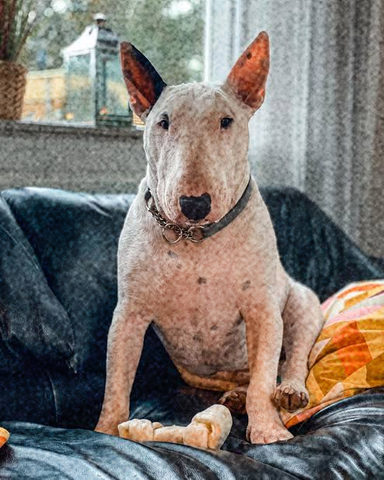
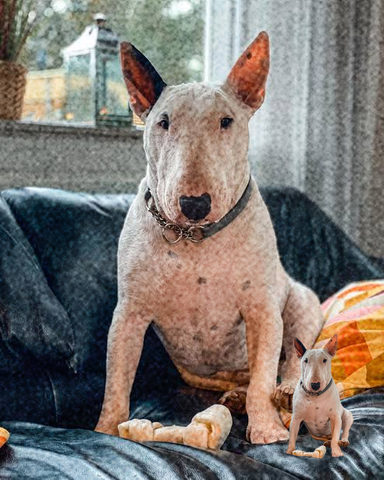
refactor(blend)!: fold overlay into blend
blend gains fit="width" (the picture as wide as the photo times scale,
aspect kept), a logo or sticker; blend's scale now reaches 0.01 as
overlay's did, margin is a basic parameter and, as the lengths rule
says, a share of the photo's long side (it was the shorter side, in
place() and so in both effects). The short way to write the old
overlay is the blend preset `logo` (normal mode, bottom right, a fifth
of the width, margin 0.025). Seven parameters instead of twelve.
Replaces the overlay effect; its example moved into the blend recipe.

Measured on 320 px renders of the bullterrier photo: 741 old overlay
renders (5 pictures: cut-out PNG, flat colour, RGB array, RGBA array,
half-transparent; all nine anchors, scales 0.01..1, margins 0..0.45,
all four resamples) against blend(mode="normal", fit="width") with the
margin converted to the long side, max abs diff 0.0; the logo preset
against overlay's defaults, 0.0.

Changed region(s): [[0.75, 0.6875, 0.9375, 0.9688]]

diff --git a/tests/effects/blend/test_blend.py b/tests/effects/blend/test_blend.py
@@ -9,6 +9,7 @@ import pytest
 
 from bullterrier_image import Picture
 from bullterrier_image.core import registry
+from bullterrier_image.core.steps import Step
 
 NAME = "blend"
 
@@ -81,12 +82,96 @@ def test_tile_repeats_the_picture_scale_times_the_photos_width(photo):
 
 def test_the_margin_keeps_the_edge_of_the_photo_clear(photo):
     red = Picture.of_color("#ff0000")
-    out = registry.apply(NAME, photo, image=red, mode="normal", fit="stretch", margin=0.1)  # 10 of 96 px
-    np.testing.assert_array_equal(out[:10], photo[:10])
-    np.testing.assert_allclose(out[10:86, 10:118], np.broadcast_to([1, 0, 0], (76, 108, 3)), atol=1e-6)
+    out = registry.apply(NAME, photo, image=red, mode="normal", fit="stretch", margin=0.125)  # 16 of 128 px
+    np.testing.assert_array_equal(out[:16], photo[:16])
+    np.testing.assert_allclose(out[16:80, 16:112], np.broadcast_to([1, 0, 0], (64, 96, 3)), atol=1e-6)
 
 
 def test_a_transparent_picture_is_resized_without_bleeding_its_hidden_colour(photo):
     half = np.array([[[1, 0, 0, 1], [0, 1, 0, 0]]], np.float32)  # opaque red, then clear with green hidden in it
     out = registry.apply(NAME, photo, image=Picture(half), mode="normal", fit="stretch", resample="bicubic")
     assert (out[..., 1] <= photo[..., 1] + 1e-6).all()  # the hidden green is never mixed in (it would lift green)
+
+
+# --- a logo: fit "width" sizes the picture by the photo's width ----------------------------------------------------
+
+
+def logo_pixels() -> np.ndarray:
+    """An 8 x 16 (height x width) logo: opaque red on the left half, opaque blue on the right half."""
+    pixels = np.ones((8, 16, 4), np.float32)
+    pixels[:, :8, :3] = (1, 0, 0)
+    pixels[:, 8:, :3] = (0, 0, 1)
+    return pixels
+
+
+def put_logo(photo, logo=None, **params):
+    """The logo laid on the photo with the normal mode, fitted by width, hard-edged, as `blend` takes it."""
+    picture = Picture(logo_pixels() if logo is None else logo)
+    return registry.apply(NAME, photo, image=picture, mode="normal", fit="width", resample="nearest", **params)
+
+
+def test_a_fit_by_width_sizes_the_picture_as_a_share_of_the_photos_width_and_touches_nothing_else(photo):
+    # 96 x 128 photo, scale 0.25: the logo is 32 px wide and so 16 tall (each logo pixel 2 x 2), top left, no margin
+    out = put_logo(photo, at="top_left", scale=0.25, margin=0)
+    by_hand = np.repeat(np.repeat(logo_pixels()[..., :3], 2, axis=0), 2, axis=1)
+    np.testing.assert_array_equal(out[:16, :32], by_hand)
+    outside = np.ones(photo.shape[:2], bool)
+    outside[:16, :32] = False
+    np.testing.assert_array_equal(out[outside], photo[outside])
+
+
+def test_a_logo_with_alpha_0_leaves_the_photo_as_it_was(photo):
+    clear = logo_pixels()
+    clear[..., 3] = 0
+    np.testing.assert_array_equal(put_logo(photo, clear), photo)
+
+
+def test_a_half_transparent_logo_mixes_half_of_the_photo_into_its_box(photo):
+    half = logo_pixels()
+    half[..., 3] = 0.5
+    out = put_logo(photo, half, at="top_left", scale=0.25, margin=0)
+    by_hand = np.repeat(np.repeat(logo_pixels()[..., :3], 2, axis=0), 2, axis=1)
+    np.testing.assert_allclose(out[:16, :32], 0.5 * photo[:16, :32] + 0.5 * by_hand, atol=1e-6)
+
+
+@pytest.mark.parametrize(
+    ("at", "top", "left"),
+    [("top_left", 0, 0), ("top_right", 0, 96), ("bottom_left", 80, 0), ("bottom_right", 80, 96), ("center", 40, 48)],
+)
+def test_a_fit_by_width_puts_the_picture_at_its_anchor(photo, at, top, left):
+    rows, columns = np.nonzero(np.any(put_logo(photo, at=at, scale=0.25, margin=0) != photo, axis=2))
+    assert (rows.min(), columns.min(), rows.max(), columns.max()) == (top, left, top + 15, left + 31)
+
+
+def test_the_margin_is_a_share_of_the_photos_long_side(photo):
+    out = put_logo(photo, at="bottom_right", scale=0.25, margin=0.125)  # 16 px of the 128 px long side
+    rows, columns = np.nonzero(np.any(out != photo, axis=2))
+    assert (int(rows.max()), int(columns.max())) == (96 - 16 - 1, 128 - 16 - 1)
+
+
+def test_a_cut_out_keeps_its_shape_so_the_photo_shows_through_its_transparent_pixels(photo):
+    cutout = np.zeros((4, 4, 4), np.float32)
+    cutout[1:3, 1:3] = (0, 1, 0, 1)  # a green square in the middle of a clear picture
+    out = put_logo(photo, cutout, at="top_left", scale=0.25, margin=0)
+    np.testing.assert_array_equal(out[8:24, 8:24], np.broadcast_to([0, 1, 0], (16, 16, 3)))  # 32 px: 8 px per pixel
+    np.testing.assert_array_equal(out[:8], photo[:8])
+    np.testing.assert_array_equal(out[8:24, :8], photo[8:24, :8])
+
+
+def logo_corner(photo, **params):
+    """The photo with the logo laid by the given step parameters, and the rows and columns the logo changed."""
+    out = registry.apply(NAME, photo, image=Picture(logo_pixels()), **params)
+    return out, *np.nonzero(np.any(out != photo, axis=2))
+
+
+def test_the_logo_preset_puts_an_opaque_picture_a_fifth_of_the_photos_width_in_the_bottom_right_corner(photo):
+    out, rows, columns = logo_corner(photo, **Step(NAME, preset="logo").params)
+    assert abs((columns.max() - columns.min() + 1) - 0.2 * 128) <= 1  # a fifth of the photo's 128 px
+    assert 1 <= 96 - 1 - rows.max() <= 4  # a small margin from the bottom edge
+    assert 1 <= 128 - 1 - columns.max() <= 4  # and from the right edge
+    np.testing.assert_array_equal(out[rows.max(), columns.min()], [1, 0, 0])  # shown as it is: the normal mode
+
+
+def test_a_parameter_given_beside_the_logo_preset_wins(photo):
+    _, _rows, columns = logo_corner(photo, **Step(NAME, {"scale": 0.01}, preset="logo").params)
+    assert columns.max() - columns.min() + 1 <= 2  # 1 % of 128 px

diff --git a/src/bullterrier_image/effects/blend/effect.py b/src/bullterrier_image/effects/blend/effect.py
@@ -1,4 +1,5 @@
-"""The `blend` effect: lay a second picture over the photo with a blend mode (multiply a texture, screen a light...)."""
+"""The `blend` effect: lay a second picture over the photo with a blend mode (multiply a texture, screen a light, put
+a logo on it...)."""
 
 from typing import Literal
 
@@ -27,11 +28,12 @@ class BlendParams(EffectParams):
         "hue and saturation and keeps its brightness. Mid grey leaves the photo unchanged under 'overlay' and "
         "'soft_light'.",
     )
-    fit: Literal["cover", "contain", "stretch", "tile"] = param(
+    fit: Literal["cover", "contain", "stretch", "width", "tile"] = param(
         "cover",
         doc="How the picture is fitted to the photo: 'cover' fills it keeping the aspect and crops the overhang, "
         "'contain' fits inside it keeping the aspect (the rest of the photo is untouched), 'stretch' fills it "
-        "ignoring the aspect, 'tile' repeats the picture, one tile as wide as the photo times `scale`.",
+        "ignoring the aspect, 'width' keeps the aspect and makes the picture as wide as the photo times `scale` (a "
+        "logo or sticker), 'tile' repeats that picture over the photo.",
     )
     at: Anchor = param(
         "center",
@@ -41,19 +43,20 @@ class BlendParams(EffectParams):
     scale: float = param(
         1.0,
         unit="ratio",
-        min=0.05,
+        min=0.01,
         max=2,
         doc="The fitted picture's size as a multiple of the size `fit` gives it: 1 as fitted, 0.5 half as wide and "
-        "tall. With 'tile', 0.25 puts four tiles across the photo.",
+        "tall. With 'width' it is the picture's width as a share of the photo's (0.2 a fifth); with 'tile', 0.25 "
+        "puts four tiles across the photo.",
     )
     margin: float = param(
         0.0,
         unit="fraction",
         min=0,
         max=0.45,
-        advanced=True,
-        doc="Space kept clear around the fitted picture, as a share of the photo's shorter side, 0 to 0.45. Raising "
-        "it shrinks what 'cover', 'contain' and 'stretch' fill and moves the picture inward.",
+        doc="Space kept clear around the fitted picture, as a share of the photo's long side, 0 to 0.45 (never more "
+        "than leaves a pixel of the shorter side). Raising it shrinks what 'cover', 'contain' and 'stretch' fill and "
+        "moves a smaller picture at an edge or corner inward.",
     )
     resample: Resample = param(
         "lanczos",
@@ -65,7 +68,7 @@ class BlendParams(EffectParams):
 
 @effect(category="compositing", params=BlendParams)
 def blend(rgb: np.ndarray, params: BlendParams) -> np.ndarray:
-    """Lay a second picture over the photo with a blend mode, fitted by cover, contain, stretch or tile."""
+    """Lay a second picture over the photo with a blend mode, fitted by cover, contain, stretch, width or tile."""
     layer = place(
         params.image.pixels,
         rgb.shape[:2],

diff --git a/src/bullterrier_image/ops/place.py b/src/bullterrier_image/ops/place.py
@@ -40,13 +40,14 @@ def place(
     - `width` makes the picture as wide as the photo (a logo's `scale` is then a share of the photo's width);
     - `tile` is `width`, repeated over the whole photo with one tile at the anchor.
     `at` says where in the free space a picture smaller or larger than the area sits (the tiles' phase for `tile`).
-    `margin` is a share of the photo's shorter side, kept clear on every side (at most as much as leaves a pixel).
+    `margin` is a share of the photo's long side, kept clear on every side (at most as much as leaves a pixel of the
+    shorter side).
     `resample` is the filter that sizes it; colours are weighted by alpha while sizing, so a transparent pixel lends
     its neighbours no colour.
     """
     height, width = shape
     short = min(shape)
-    inset = min(round(margin * short), (short - 1) // 2)
+    inset = min(round(margin * max(shape)), (short - 1) // 2)
     area_h, area_w = height - 2 * inset, width - 2 * inset
     source_h, source_w = picture.shape[:2]
     if fit == "stretch":

diff --git a/tests/ops/test_place.py b/tests/ops/test_place.py
@@ -52,10 +52,10 @@ def test_a_picture_sits_at_one_of_nine_anchors_in_the_free_space(at, top, left):
     assert box(fit(SQUARE, (20, 20), at=at, scale=0.5)) == (top, left, 10, 10)
 
 
-def test_the_margin_is_a_share_of_the_shorter_side_kept_clear_of_the_picture():
-    placed = fit(SQUARE, (40, 60), margin=0.1)  # 4 px of 40; the area is 32 x 52, so a square picture is 32 x 32
-    assert box(placed) == (4, 14, 32, 32)
-    assert box(fit(SQUARE, (40, 60), margin=0.1, at="top_left")) == (4, 4, 32, 32)
+def test_the_margin_is_a_share_of_the_long_side_kept_clear_of_the_picture():
+    placed = fit(SQUARE, (40, 60), margin=0.1)  # 6 px of 60; the area is 28 x 48, so a square picture is 28 x 28
+    assert box(placed) == (6, 16, 28, 28)
+    assert box(fit(SQUARE, (40, 60), margin=0.1, at="top_left")) == (6, 6, 28, 28)
 
 
 def test_contain_keeps_the_aspect_and_leaves_the_rest_transparent():

diff --git a/docs/design-decisions.md b/docs/design-decisions.md
@@ -120,10 +120,14 @@ contributors are in [CLAUDE.md](../CLAUDE.md); what is planned is in the [effect
   contract's "a constant picture stays constant under every interpolation" does not hold for them. *Reason:* the contract
   rule is about warping the photo; a second name keeps it simple instead of an exemption list. *Consequence:* a field
   named `interpolation` promises that rule; use `resampling` when the effect does not.
-- **The picture an effect takes is called `image`.** `blend` and `overlay` both take a
-  `Picture` and place it with the same `at`, `scale` and `margin`; their pictures were `texture` and `logo`. *Reason:*
-  the same kind of parameter has the same name, so a developer who has used one picture effect knows the next.
-  *Consequence:* a later effect with one picture names it `image`; one with several names each for its role.
+- **The picture an effect takes is called `image`.** `blend` takes a `Picture` and places it with `fit`, `at`, `scale` and
+  `margin`; its picture was `texture`, and the logo of the folded-in `overlay` was `logo`. *Reason:* the same kind of
+  parameter has the same name, so a developer who has used one picture effect knows the next. *Consequence:* a later
+  effect with one picture names it `image`; one with several names each for its role.
+- **A logo is `blend` with `fit="width"`, not an effect of its own.** `overlay` was `blend` in the `normal` mode with the
+  picture sized by the photo's width; folding it leaves one placement model and seven parameters instead of twelve, and
+  the preset `logo` keeps the short way to write it. `margin` is a share of the long side (the lengths rule), not of the
+  shorter one.
 - **An effect's controls are named scalars; a list of numbers is for data, not for controls.** `channel_mixer` takes
   nine fields (`red_from_green`...) and `curves` a parametric curve (shadows, midtones, highlights, per master and
   channel), not a `matrix` or a `points` list. *Reason:* only scalars can be driven by a control signal from outside, become a slider

diff --git a/docs/effects-roadmap.md b/docs/effects-roadmap.md
@@ -260,8 +260,7 @@ Combine the photo with an asset (a picture that is part of the look, given as a 
 
 | Effect | What it does | Example |
 | --- | --- | --- |
-| `blend` ✓ | Combine with another layer in any blend mode (masked to the background, it replaces the background with a picture). | `fx.blend(image="tex.png", mode="soft_light")` |
-| `overlay` ✓ | Place an image, logo or watermark. | `fx.overlay(image="logo.png", at="bottom_right", scale=0.2)` |
+| `blend` ✓ | Combine with another layer in any blend mode (masked to the background, it replaces the background with a picture); `fit="width"` places a logo or watermark (preset `logo`). | `fx.blend(image="tex.png", mode="soft_light")` |
 | `gradient_overlay` ✓ (a recipe step) | Linear, radial or conic colour wash: `gradient` with a step `blend_mode`, not an effect. | `fx.gradient(colors=["#f0f","#0ff"], kind="linear", blend_mode="screen")` |
 
 Combining several photos as equals (a collage, a transition or morph between two shots) needs several inputs or a

diff --git a/docs/recipes.md b/docs/recipes.md
@@ -305,7 +305,7 @@ never JPEG: project exporting it to `jpg` fails before anything renders.
 **`bt-image cutout` or `transparent = "background"`?** Both cut the subject out, for different jobs. `bt-image cutout photo.jpg
 -o dog.png` makes a cut-out *file*: photo at its own size with subject's alpha, optional edge clean-up (`--shrink` pulls in,
 `--feather` softens), no recipe. Make one when cut-out is an input you reuse and check once: `--map subject=` of a later run
-(`maps={"subject": ...}`), so subject is not found again, or a picture parameter such as `overlay`'s `image`
+(`maps={"subject": ...}`), so subject is not found again, or a picture parameter such as `blend`'s `image`
 (`examples/assets/bullterrier-cutout.png` is one). `transparent = "background"` in `[frame]` ends a *look*: finished picture,
 recipe's size, after every step, cut out around subject (sticker, avatar).
 

diff --git a/CLAUDE.md b/CLAUDE.md
@@ -24,7 +24,7 @@ on each other; only video knows the others.
 | Rendering one look many times with different values cheaply | Layered layouts, posters, multi-element canvases → video |
 
 **No time:** no seconds, frames, clips, easing or fps in code, parameters or docs. A parameter is a *state* (`progress`, `phase`,
-`seed`, `offset`); whoever animates it sets it per frame. Filter-shaped compositing (text as an `svg` region, overlay, blend,
+`seed`, `offset`); whoever animates it sets it per frame. Filter-shaped compositing (text as an `svg` region, blend, a logo or
 sticker) stays here; anything needing a canvas of its own or several inputs does not.
 
 ## Names
